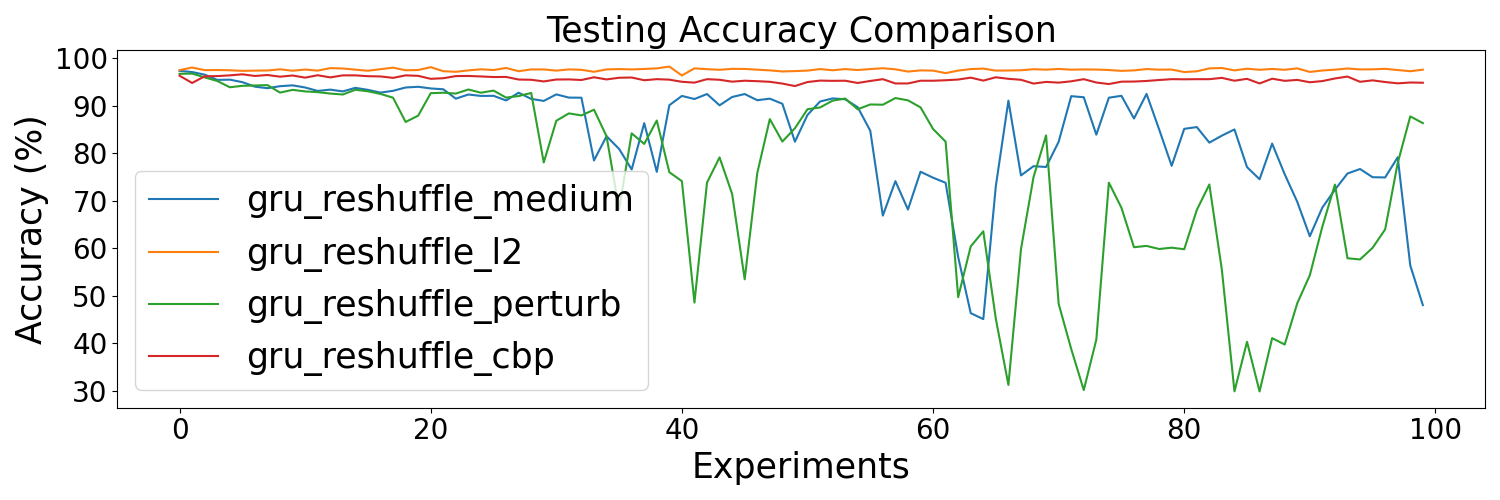
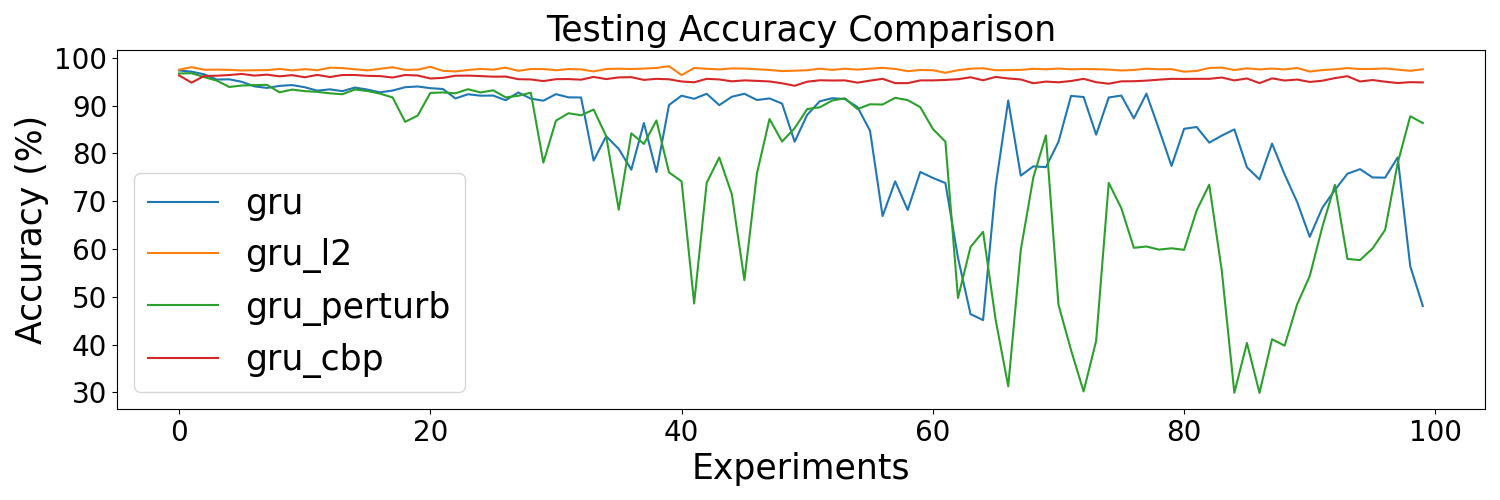
Add config option to rename experiment label

diff --git a/src/utils/plot.py b/src/utils/plot.py
@@ -133,7 +133,8 @@ def plot_comparison_full_length(
     numpy_files: List[str],
     config_files: List[str],
     type: str,
-    comparison_name: str
+    comparison_name: str,
+    labels_map: Optional[Dict[str, str]] = {}
 ):
     """
     Plots a comparison of accuracy/loss of last epoch during each experiments given the configuration files.
@@ -142,6 +143,7 @@ def plot_comparison_full_length(
         numpy_files (List[str]): A list of paths to NumPy files containing the data to be plotted.
         config_paths (List[str]): A list of paths to YAML configuration files providing additional settings.
         type (str): The type of comparison to perform (e.g., "line", "bar", "scatter").
+        labels_map (Dict[str, str]): A dictionary of labels for the experiments mapping original label to new label.
     """
     
     print(type + ' plotting.')
@@ -182,7 +184,7 @@ def plot_comparison_full_length(
         except yaml.YAMLError as e:
             print(f"Error: Failed to parse YAML file. {e}")
 
-        labels.append(config['exp_desc'])
+        labels.append(labels_map.get(config['exp_desc'], config['exp_desc']))
         plt.plot(data[:, -1])
 
     plt.legend(labels, fontsize=font_size, loc='lower left')

diff --git a/src/compare/compare.py b/src/compare/compare.py
@@ -34,10 +34,16 @@ def compare_configs(
         print(f"Error: Failed to parse YAML file. {e}")
 
     if config['accuracy']:
-        plot_comparison_full_length(config['numpy_files'], config['config_files'], 'Accuracy', config_name)
+        if 'labels' in config:
+            plot_comparison_full_length(config['numpy_files'], config['config_files'], 'Accuracy', config_name, config['labels'])
+        else:
+            plot_comparison_full_length(config['numpy_files'], config['config_files'], 'Accuracy', config_name)
     
     if config['loss']:
-        plot_comparison_full_length(config['numpy_files'], config['config_files'], 'Loss', config_name)
+        if 'labels' in config:
+            plot_comparison_full_length(config['numpy_files'], config['config_files'], 'Loss', config_name, config['labels'])
+        else:
+            plot_comparison_full_length(config['numpy_files'], config['config_files'], 'Loss', config_name)
     
 
 if __name__ == "__main__":
